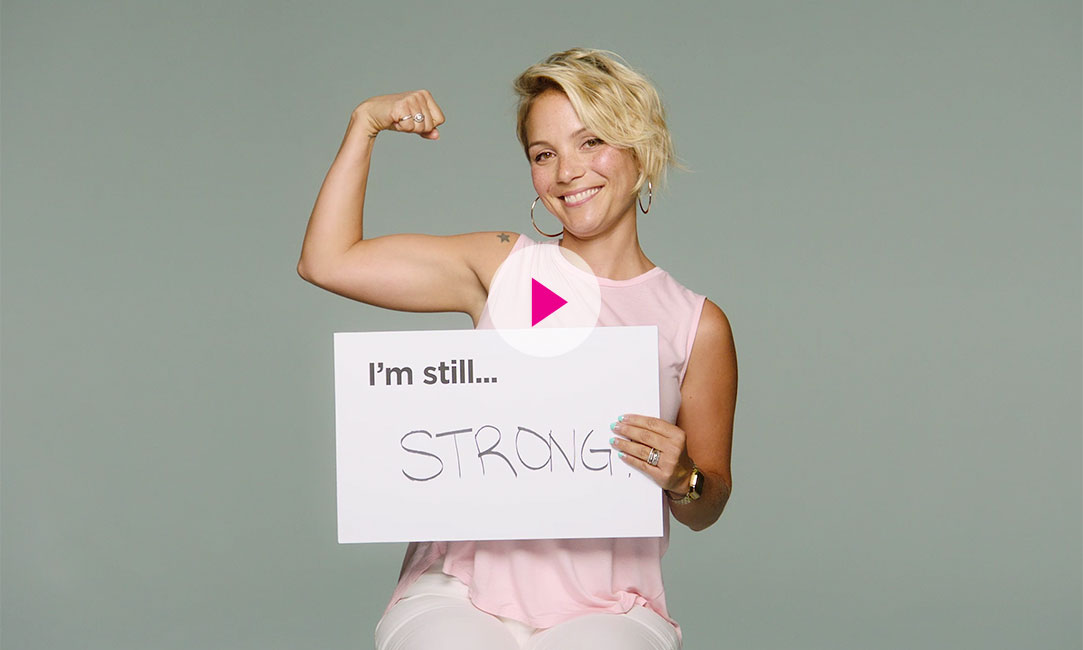
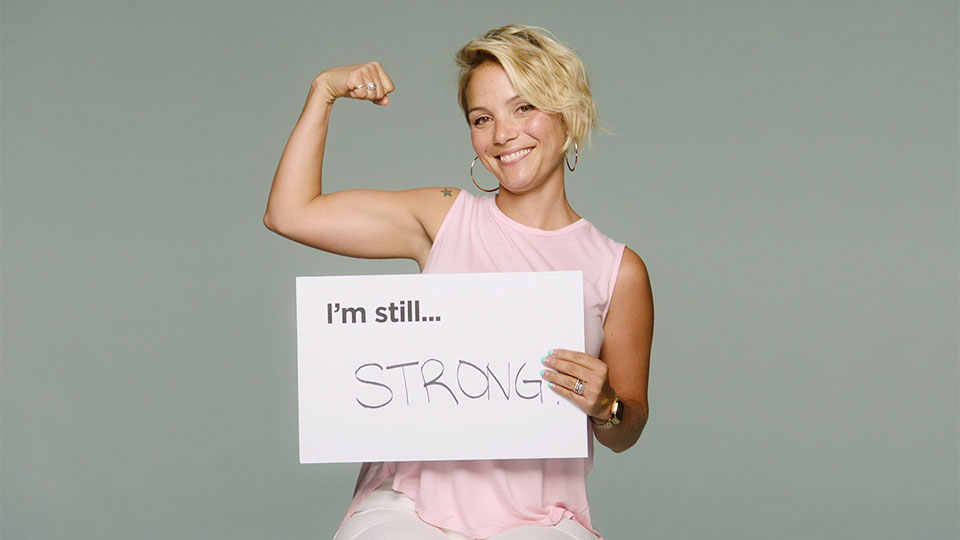
B-59839 Desktop 1.05 fixing video on Firefox & resizing image

diff --git a/public/javascripts/projects/campaign/give-pink-get-more/pink-fall-2016.js b/public/javascripts/projects/campaign/give-pink-get-more/pink-fall-2016.js
@@ -62,10 +62,10 @@ $(document).ready(function() {
 		$('#stories').attr('src', res);
 	}, 5124807676001 );
 
-	// Play video on poster click
-	$('#stories').on('click', function () {
-		$(this)[0].play();
-	});
+	// Play video on poster click -- REMOVED DUE TO FIREFOX ISSUE
+	// $('#stories').on('click', function () {
+	// 	$(this)[0].play();
+	// });
 
 	// back to top button
 	$("#backToTop").on("click tap", function () {
